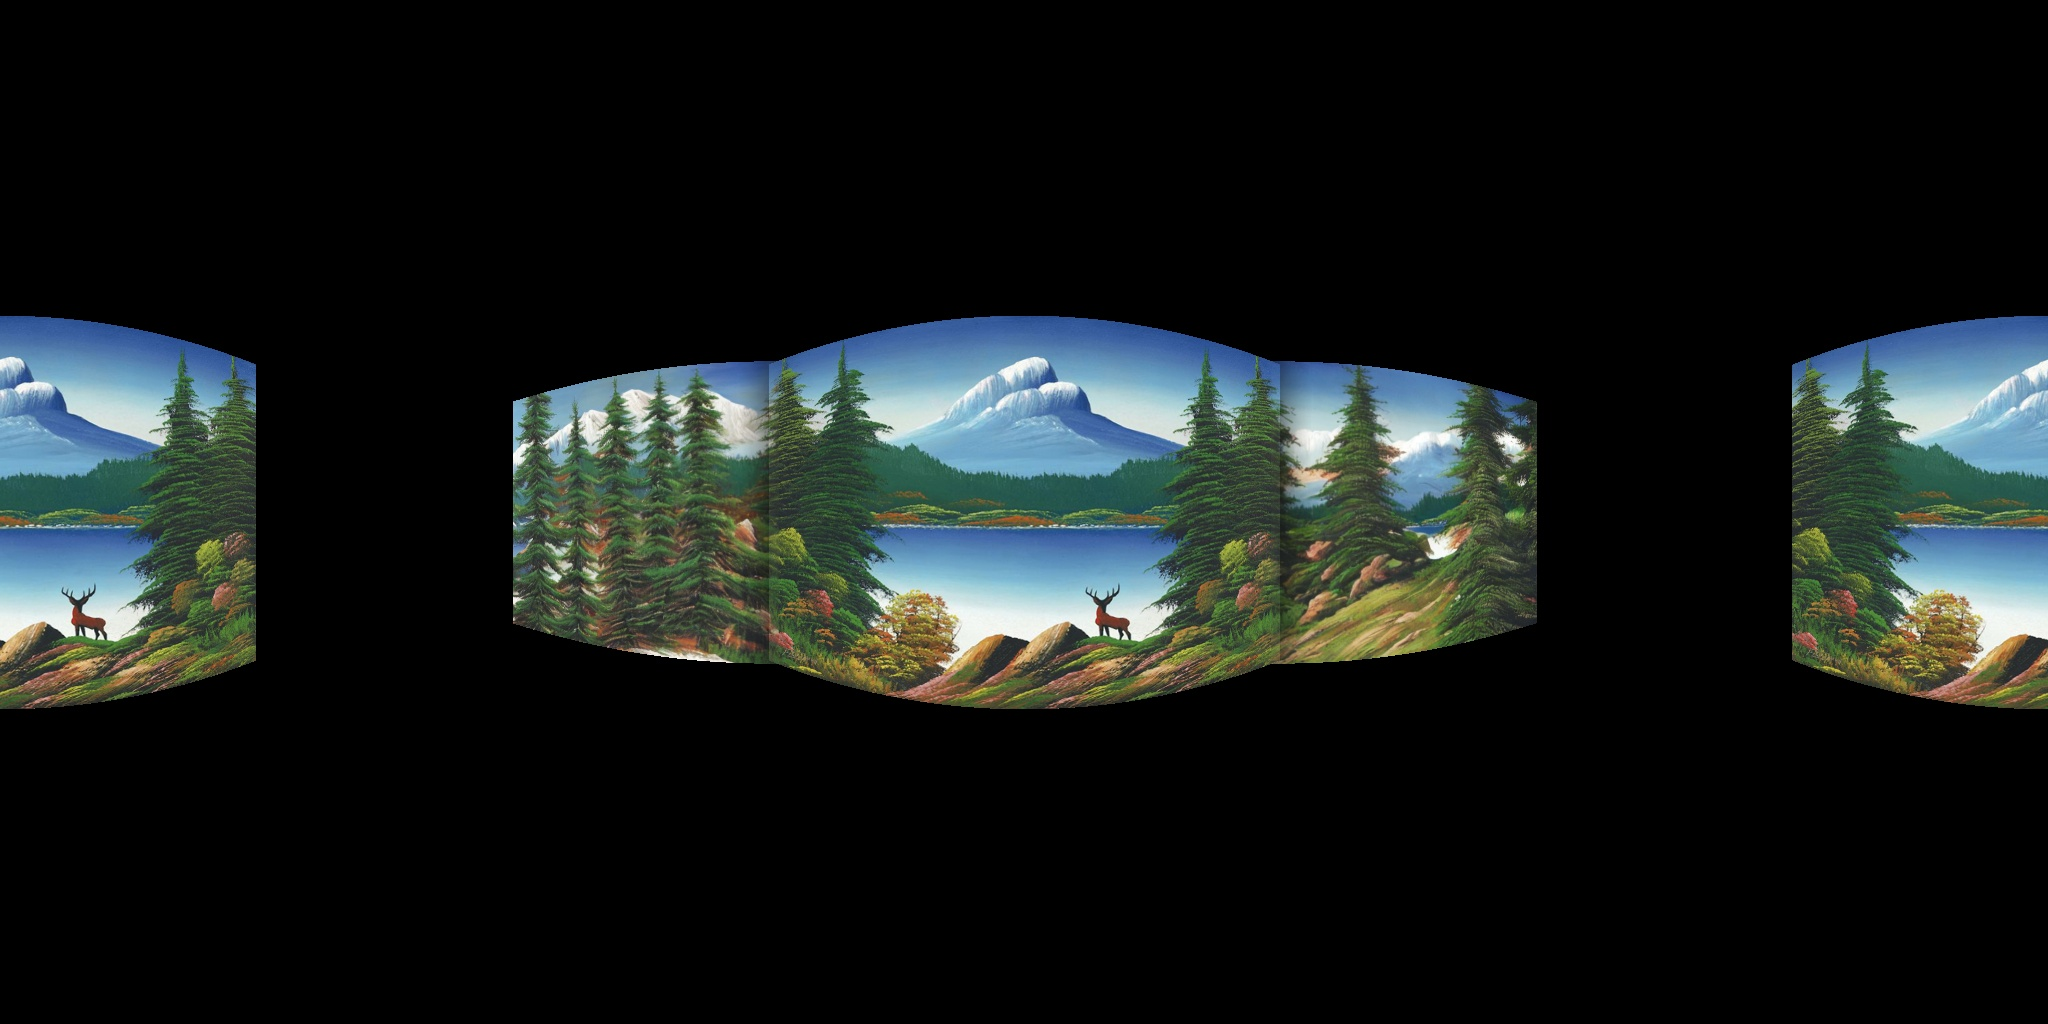
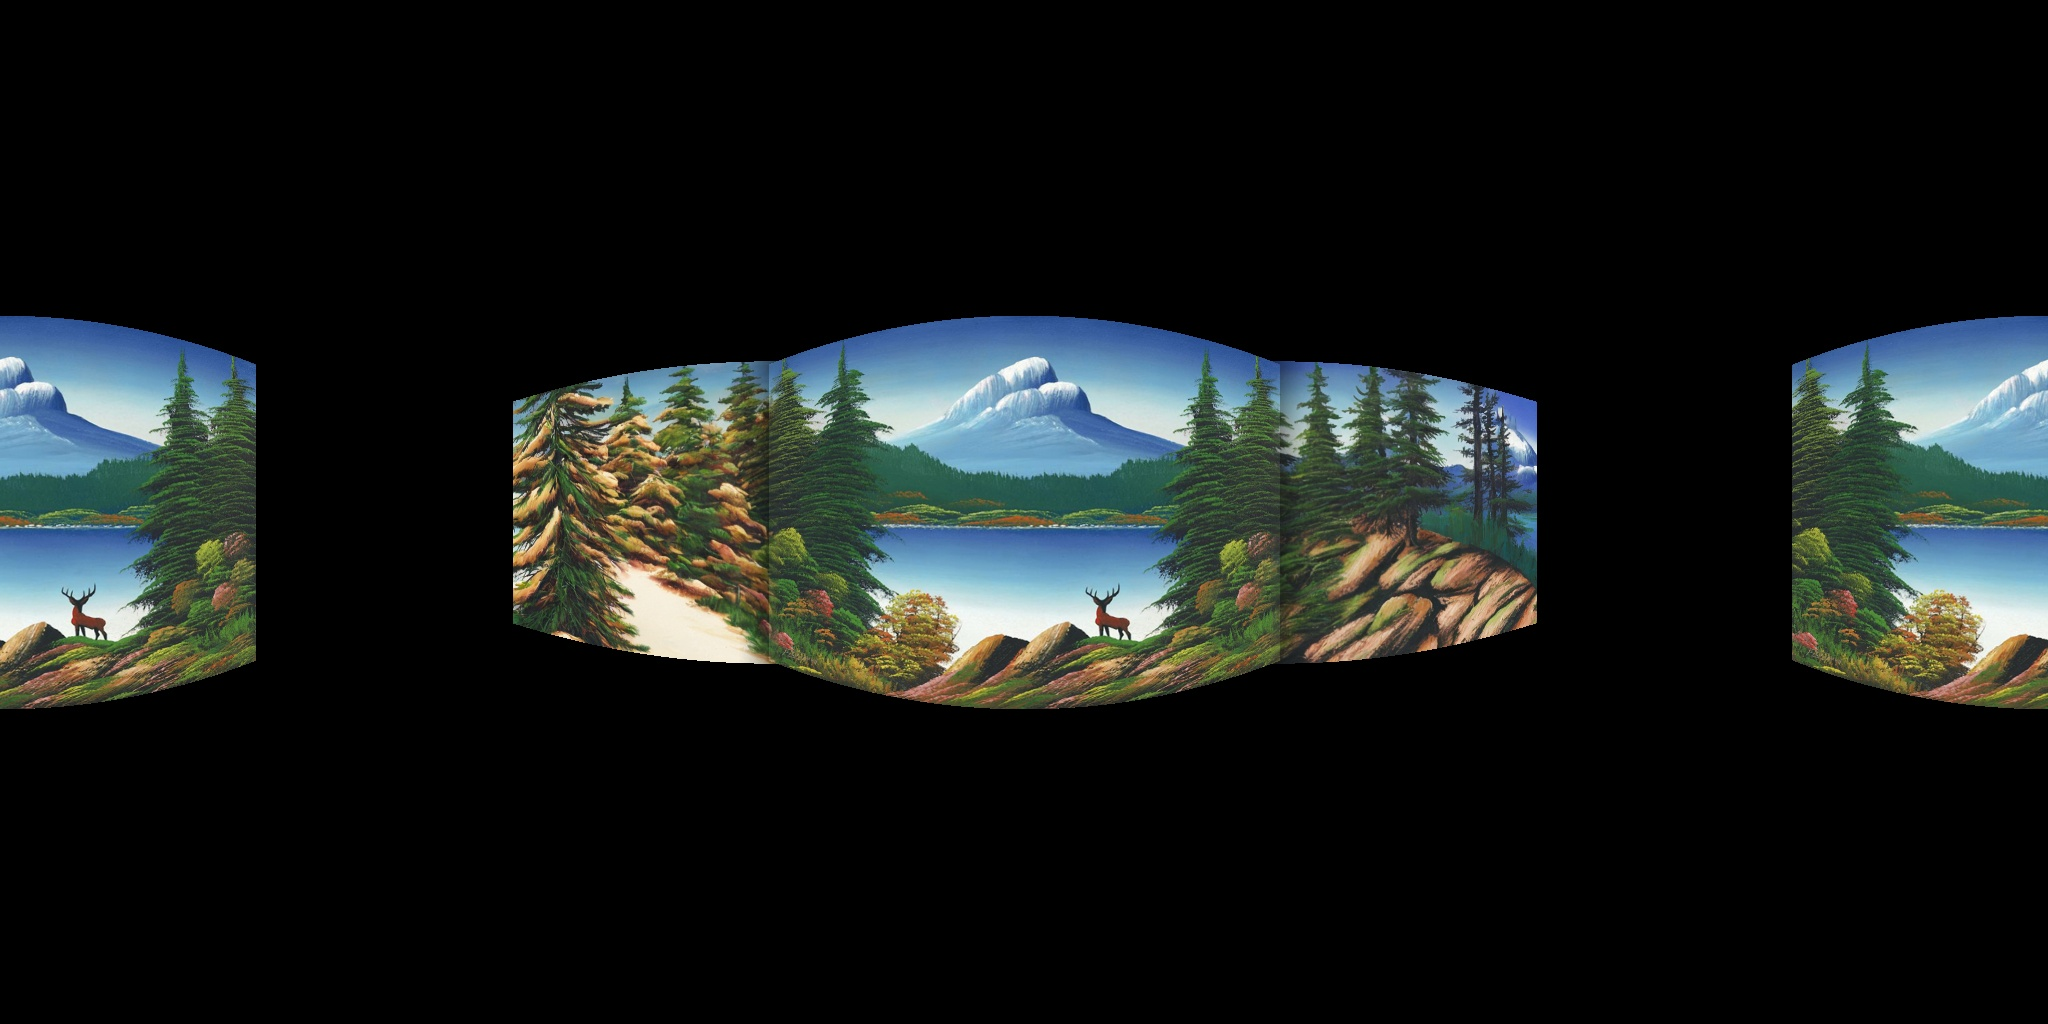
SKY IS ORANGE mf there is a rgb bgr mismatch

Changed region(s): [[0.625, 0.3438, 0.75, 0.6562], [0.25, 0.3438, 0.375, 0.6562]]

diff --git a/utils/inpaint.py b/utils/inpaint.py
@@ -1,4 +1,3 @@
-# inpaint_utils.py
 from PIL import Image, ImageOps, ImageFilter
 import torch
 from diffusers import StableDiffusionInpaintPipeline
@@ -7,49 +6,63 @@ import cv2
 
 
 def pad_and_create_mask_reflect(
-    image: Image.Image,
+    image: np.ndarray,
     left: int, right: int,
     top: int, bottom: int,
-    feather: int = 30
-) -> (Image.Image, Image.Image):
-    """
-    Mirror-pad `image` on each side, then build a mask that’s white
-    in the padded regions and black over the original, feathered by `feather` px.
-    """
-    W, H = image.size
-    new_W, new_H = W + left + right, H + top + bottom
+    feather: int = 30,
+    reflect: bool = True
+) -> (np.ndarray, np.ndarray):
+    
+    H, W = image.shape[:2]
+    new_H, new_W = H + top + bottom, W + left + right
 
-    padded = Image.new("RGB", (new_W, new_H))
-    padded.paste(image, (left, top))
-    padded.paste(image.crop((0,0,left,H)).transpose(Image.FLIP_LEFT_RIGHT), (0, top))
-    padded.paste(image.crop((W-right,0,W,H)).transpose(Image.FLIP_LEFT_RIGHT), (left+W, top))
-    padded.paste(padded.crop((0, top, new_W, top+top)).transpose(Image.FLIP_TOP_BOTTOM), (0,0))
-    padded.paste(padded.crop((0, top+H-bottom, new_W, top+H)).transpose(Image.FLIP_TOP_BOTTOM), (0, top+H))
+    # 1) create blank canvas and paste original
+    padded = np.zeros((new_H, new_W, 3), dtype=image.dtype)
+    padded[top:top+H, left:left+W] = image
 
-    mask = Image.new("L", (new_W, new_H), 255)
-    mask.paste(0, (left, top, left+W, top+H))
+    if reflect:
+        if left > 0:
+            padded[top:top+H, :left] = np.fliplr(image[:, :left])
+        if right > 0:
+            padded[top:top+H, left+W:] = np.fliplr(image[:, W-right:W])
+        if top > 0:
+            padded[:top, :] = np.flipud(padded[top:top+top, :])
+        if bottom > 0:
+            padded[top+H:, :] = np.flipud(padded[top+H-bottom:top+H, :])
 
-    mask = mask.filter(ImageFilter.GaussianBlur(radius=feather))
+    mask = np.full((new_H, new_W), 255, dtype=np.uint8)
+    mask[top:top+H, left:left+W] = 0
+
+    k = feather * 2 + 1
+    mask = cv2.GaussianBlur(mask, (k, k), sigmaX=feather)
+
+
     return padded, mask
 
+
 def load_image_and_mask_from_black(
-    path: str,
+    arr: np.ndarray,
     threshold: int = 10,
-    dilate_px: int = 32,     
-    feather: int = 64         # bigger feather
-):
-    image = Image.open(path).convert("RGB")
-    arr   = np.array(image)
+    dilate_px: int = 32,
+    feather: int = 64
+) -> (np.ndarray, np.ndarray):
 
-    black = np.all(arr <= threshold, axis=2).astype(np.uint8)
+    image = arr.copy()
 
-    # 1. Grow the mask *into* the picture ← overlap
-    kernel  = cv2.getStructuringElement(cv2.MORPH_ELLIPSE, (dilate_px, dilate_px))
-    grown   = cv2.dilate(black, kernel, iterations=1)
+    black = np.all(image <= threshold, axis=2).astype(np.uint8)
 
-    mask = Image.fromarray(grown * 255, mode="L")
-    mask = mask.filter(ImageFilter.GaussianBlur(radius=feather))
+    kernel = cv2.getStructuringElement(cv2.MORPH_ELLIPSE, (dilate_px, dilate_px))
+    grown = cv2.dilate(black, kernel, iterations=1)
+
+    # convert to 0–255 mask
+    mask = (grown * 255).astype(np.uint8)
+
+    # apply Gaussian blur (kernel size must be odd)
+    ksize = (feather * 2 + 1, feather * 2 + 1)
+    mask = cv2.GaussianBlur(mask, ksize, sigmaX=feather)
+
     return image, mask
+
 
 def load_soft_hard_masks_from_black(
     arr: np.ndarray,
@@ -73,7 +86,6 @@ def load_soft_hard_masks_from_black(
     soft_mask = cv2.GaussianBlur(hard_mask, ksize, sigmaX=feather)
 
     return image, hard_mask, soft_mask
-
 
 
 def inpaint_image(

diff --git a/check_size.py b/check_size.py
@@ -1,0 +1,84 @@
+import json
+import cv2
+import math
+import numpy as np
+from utils.inpaint import pad_and_create_mask_reflect, inpaint_image
+
+def complete_to_1024(
+    image_arr: np.ndarray,
+    prompts_path: str,
+    feather: int = 30,
+    guidance_scale: float = 10.0,
+    steps: int = 50
+) -> np.ndarray:
+
+    with open(prompts_path, 'r') as f:
+        prompts = json.load(f)
+
+    side_prompt   = prompts['atmosphere']
+    sky_prompt    = prompts['sky_or_ceiling']
+    bottom_prompt = prompts['ground_or_floor']
+
+    # Stage 1: Expand sides (horizontal)
+    h, w = image_arr.shape[:2]
+    missing_w = 1024 - w
+    if missing_w > 0:
+        left = missing_w // 2
+        right = missing_w - left
+        padded, mask = pad_and_create_mask_reflect(
+            image_arr, left, right, 0, 0, feather, reflect=True
+        )
+
+        cv2.imwrite("debug_sides_padded.png", padded)
+        cv2.imwrite("debug_sides_mask.png", mask)
+        image_arr = inpaint_image(
+            padded, mask, side_prompt, guidance_scale, steps
+        )
+
+    # Stage 2: Expand sky (top) without reflect
+    h, w = image_arr.shape[:2]
+    missing_h = 1024 - h
+    if missing_h > 0:
+        top = math.ceil(missing_h / 2)
+        padded, mask = pad_and_create_mask_reflect(
+            image_arr, 0, 0, top, 0, feather, reflect=False
+        )
+        cv2.imwrite("debug_sky_padded.png", padded)
+        cv2.imwrite("debug_sky_mask.png", mask)
+        image_arr = inpaint_image(
+            padded, mask, sky_prompt, guidance_scale, steps
+        )
+
+    # # Stage 3: Expand bottom (vertical) without reflect
+    # h, w = image_arr.shape[:2]
+    # missing_h = 1024 - h
+    # if missing_h > 0:
+    #     bottom = missing_h
+    #     padded, mask = pad_and_create_mask_reflect(
+    #         image_arr, 0, 0, 0, bottom, feather, reflect=False
+    #     )
+    #     cv2.imwrite("debug_bottom_padded.png", padded)
+    #     cv2.imwrite("debug_bottom_mask.png", mask)
+    #     image_arr = inpaint_image(
+    #         padded, mask, bottom_prompt, guidance_scale, steps
+    #     )
+
+    # # Final: center-crop any overshoot
+    # h, w = image_arr.shape[:2]
+    # if h != 1024 or w != 1024:
+    #     y = max((h - 1024) // 2, 0)
+    #     x = max((w - 1024) // 2, 0)
+    #     image_arr = image_arr[y:y+1024, x:x+1024]
+
+
+    return image_arr
+
+
+image = cv2.imread("input.jpg")
+
+resized = complete_to_1024(
+    image_arr = image,
+    prompts_path = "prompts.json",
+) 
+
+cv2.imwrite("resized.jpg", resized)

diff --git a/one_cycle.py b/one_cycle.py
@@ -12,8 +12,6 @@ from utils.center_img import center_image
 from utils.inpaint import load_soft_hard_masks_from_black, inpaint_image
 from utils.blend_pano import blend_patch_into_pano
 
-
-
 def one_cycle(
     pano: np.ndarray,
     yaw: float,
@@ -79,5 +77,13 @@ image = cv2.imread("input.jpg")
 pano = center_image(image, fov_deg=90, out_w=2048, out_h=1024)
 pano0 = one_cycle(pano, yaw=45)
 cv2.imwrite("pano0.jpg", pano0)
+
 pano1 = one_cycle(pano0, yaw=315)
 cv2.imwrite("pano1.jpg", pano1)
+
+pano2 = one_cycle(pano1, yaw=90)
+cv2.imwrite("pano2.jpg", pano2)
+
+pano3 = one_cycle(pano2, yaw=270)
+cv2.imwrite("pano3.jpg", pano3)
+
